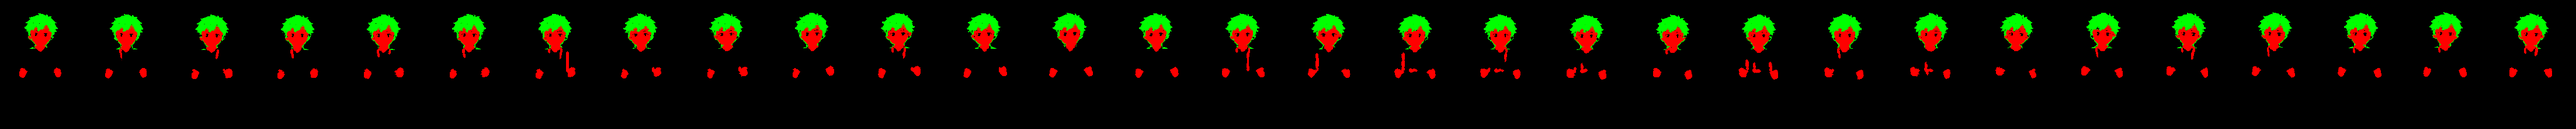
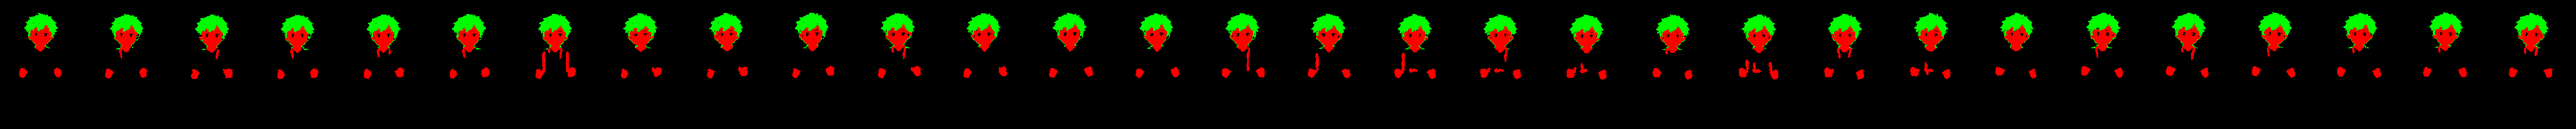
Arthur 2D walks: smooth silhouette edges, no added collar pixels, outline 15% lighter
- clean_sheet: anti-aliased silhouette (stair-steps on upper arm / nape came from the clean-up's
  keep-or-drop edge, not from Sprixen); collar repair only restores solid pale collar patches that
  touch the shirt (it had been adding pixels behind the neck); gaps painted smoothly
- ink_outline: line thickness via style.outline_weight (Arthur 0.85)

Claude-Session: https://claude.ai/code/session_01BTTj8XQEKKbtmbxwbKeDto

diff --git a/tools/sprixen/clean_sheet.py b/tools/sprixen/clean_sheet.py
@@ -33,18 +33,23 @@ def restore_collar(f):
     if not notch.any():
         return f
     out = f.copy()
-    keep = notch & (a >= 15) & (f[:, :, :3].min(2) > 150)      # pale collar colour survived
-    out[keep, 3] = 255
-    paint = notch & ~keep
-    if paint.any():
-        rgb = np.clip(out[:, :, :3], 0, 255).astype(np.uint8)
-        filled = cv2.inpaint(rgb, paint.astype(np.uint8) * 255, 3, cv2.INPAINT_TELEA)
-        out[paint, :3] = filled[paint]
-        out[paint, 3] = 255
+    # only real collar: pale pixels Sprixen kept (some alpha), in pieces of a useful size that touch
+    # the opaque white shirt. Empty background between nape and shoulder, and pale specks at the
+    # hair edge, are left alone (painting those added pixels that were never part of the drawing).
+    rgb = f[:, :, :3]
+    shirt = body & (rgb.min(2) > 175) & (rgb[:, :, 0] >= rgb[:, :, 2] - 4)
+    pale = notch & (a >= 15) & (rgb.min(2) > 150)
+    pale = ndimage.binary_opening(pale, structure=np.ones((3, 3)))   # solid patches only, no wisps
+    lab, nl = ndimage.label(pale, structure=np.ones((3, 3)))
+    near_shirt = ndimage.binary_dilation(shirt, iterations=1)
+    for k in range(1, nl + 1):
+        comp = lab == k
+        if comp.sum() >= 6 and (comp & near_shirt).any():
+            out[comp, 3] = 255
     return out
 
 
-def clean_soft(f, collar=True):
+def clean_soft(f, collar=True, aa=True):
     """clean_body, but the outline keeps Sprixen's soft (anti-aliased) edge instead of a hard
     on/off one, so the downscaled sprite has smooth outlines; small enclosed gaps in the head
     and chest (e.g. the notch Sprixen leaves between nape and collar) are closed."""
@@ -87,11 +92,32 @@ def clean_soft(f, collar=True):
                 hm = holes == k
                 hy = np.where(hm)[0].mean()
                 if hm.sum() <= 160 and hy < y0 + 0.45 * (y1 - y0):
-                    c[hm, :3] = c[iy[hm], ix[hm], :3]
+                    # paint the gap smoothly from its surroundings (nearest-pixel copying made a
+                    # patchwork of skin/vest/shirt colours in the collar)
+                    import cv2
+                    rgb8 = np.clip(c[:, :, :3], 0, 255).astype(np.uint8)
+                    painted = cv2.inpaint(rgb8, hm.astype(np.uint8) * 255, 4, cv2.INPAINT_TELEA)
+                    c[hm, :3] = painted[hm]
                     c[hm, 3] = 255
                     solid |= hm
     edge = solid & (ndimage.distance_transform_edt(solid) <= 1.5)
     c[:, :, 3] = np.where(solid, np.where(edge, np.maximum(f[:, :, 3], 0), 255), 0)
+    if not aa:
+        return c
+    # Anti-aliased silhouette. The clean-up keeps a pixel or drops it, which leaves stair-steps
+    # along slanted edges (upper arm, nape). Soften only the alpha of the outermost pixels with a
+    # small blur of the shape: same outline position, no colour change, no new solid pixels.
+    A = c[:, :, 3] / 255.0
+    As = ndimage.gaussian_filter(A, 0.7)
+    band = ndimage.binary_dilation(solid) & ~ndimage.binary_erosion(solid)
+    outer = band & ~solid                       # one pixel outside: faint coverage only
+    newA = A.copy()
+    newA[band & solid] = np.minimum(A[band & solid], np.maximum(As[band & solid] * 1.35, 0.55))
+    newA[outer] = np.clip(As[outer] * 0.6, 0, 0.35)
+    if outer.any():
+        _, (iy, ix) = ndimage.distance_transform_edt(~solid, return_indices=True)
+        c[outer, :3] = c[iy[outer], ix[outer], :3]
+    c[:, :, 3] = newA * 255
     return c
 
 if __name__ == "__main__":

diff --git a/tools/sprixen/build_char.py b/tools/sprixen/build_char.py
@@ -106,7 +106,7 @@ def build_set(name, prefix, cfg, cdir, base_files, extra_idles=True, body_h=None
             cb = clean_body(b)
         else:
             from clean_sheet import clean_soft   # soft outline to match the Sprixen-style walks
-            cb = clean_soft(b, collar=False)   # the standing drawings are approved as they are
+            cb = clean_soft(b, collar=False, aa=False)   # the standing drawings are approved as they are
         Image.fromarray(np.clip(cb, 0, 255).astype(np.uint8)).save(clean)
         views[v] = dict(base=base, clean=clean, prof=prof)
     ref = views[cfg.get("skin_reference", "side")]["clean"]
@@ -155,7 +155,8 @@ def build_set(name, prefix, cfg, cdir, base_files, extra_idles=True, body_h=None
         if d["clean"] != ref:
             run("skin_match.py", ref, lk, lk)
         if not head_lock:   # Sprixen-style: give every frame the approved drawing's outline
-            print(run("ink_outline.py", lk, d["base"], lk).stdout.strip())
+            print(run("ink_outline.py", lk, d["base"], lk,
+                      env={"OUTLINE_WEIGHT": str(cfg.get("style", {}).get("outline_weight", 1))}).stdout.strip())
         fps = round(frames / cycle, 2)
         strip = os.path.join(ART, f"{prefix}_{direction}_walk.png")
         run("build_walk_strip.py", lk, strip, H, fps,

diff --git a/tools/sprixen/ink_outline.py b/tools/sprixen/ink_outline.py
@@ -17,7 +17,9 @@ from PIL import Image
 from scipy import ndimage
 
 SRC = 256
-FULL, FADE = 1.6, 3.0       # fully inked up to FULL px from the edge, nothing past FADE px
+import os
+WEIGHT = float(os.environ.get("OUTLINE_WEIGHT", "1"))   # line thickness (config style.outline_weight)
+FULL, FADE = 1.6 * WEIGHT, 3.0 * WEIGHT    # fully inked up to FULL px from the edge, nothing past FADE px
 
 
 def line_colour(base):
